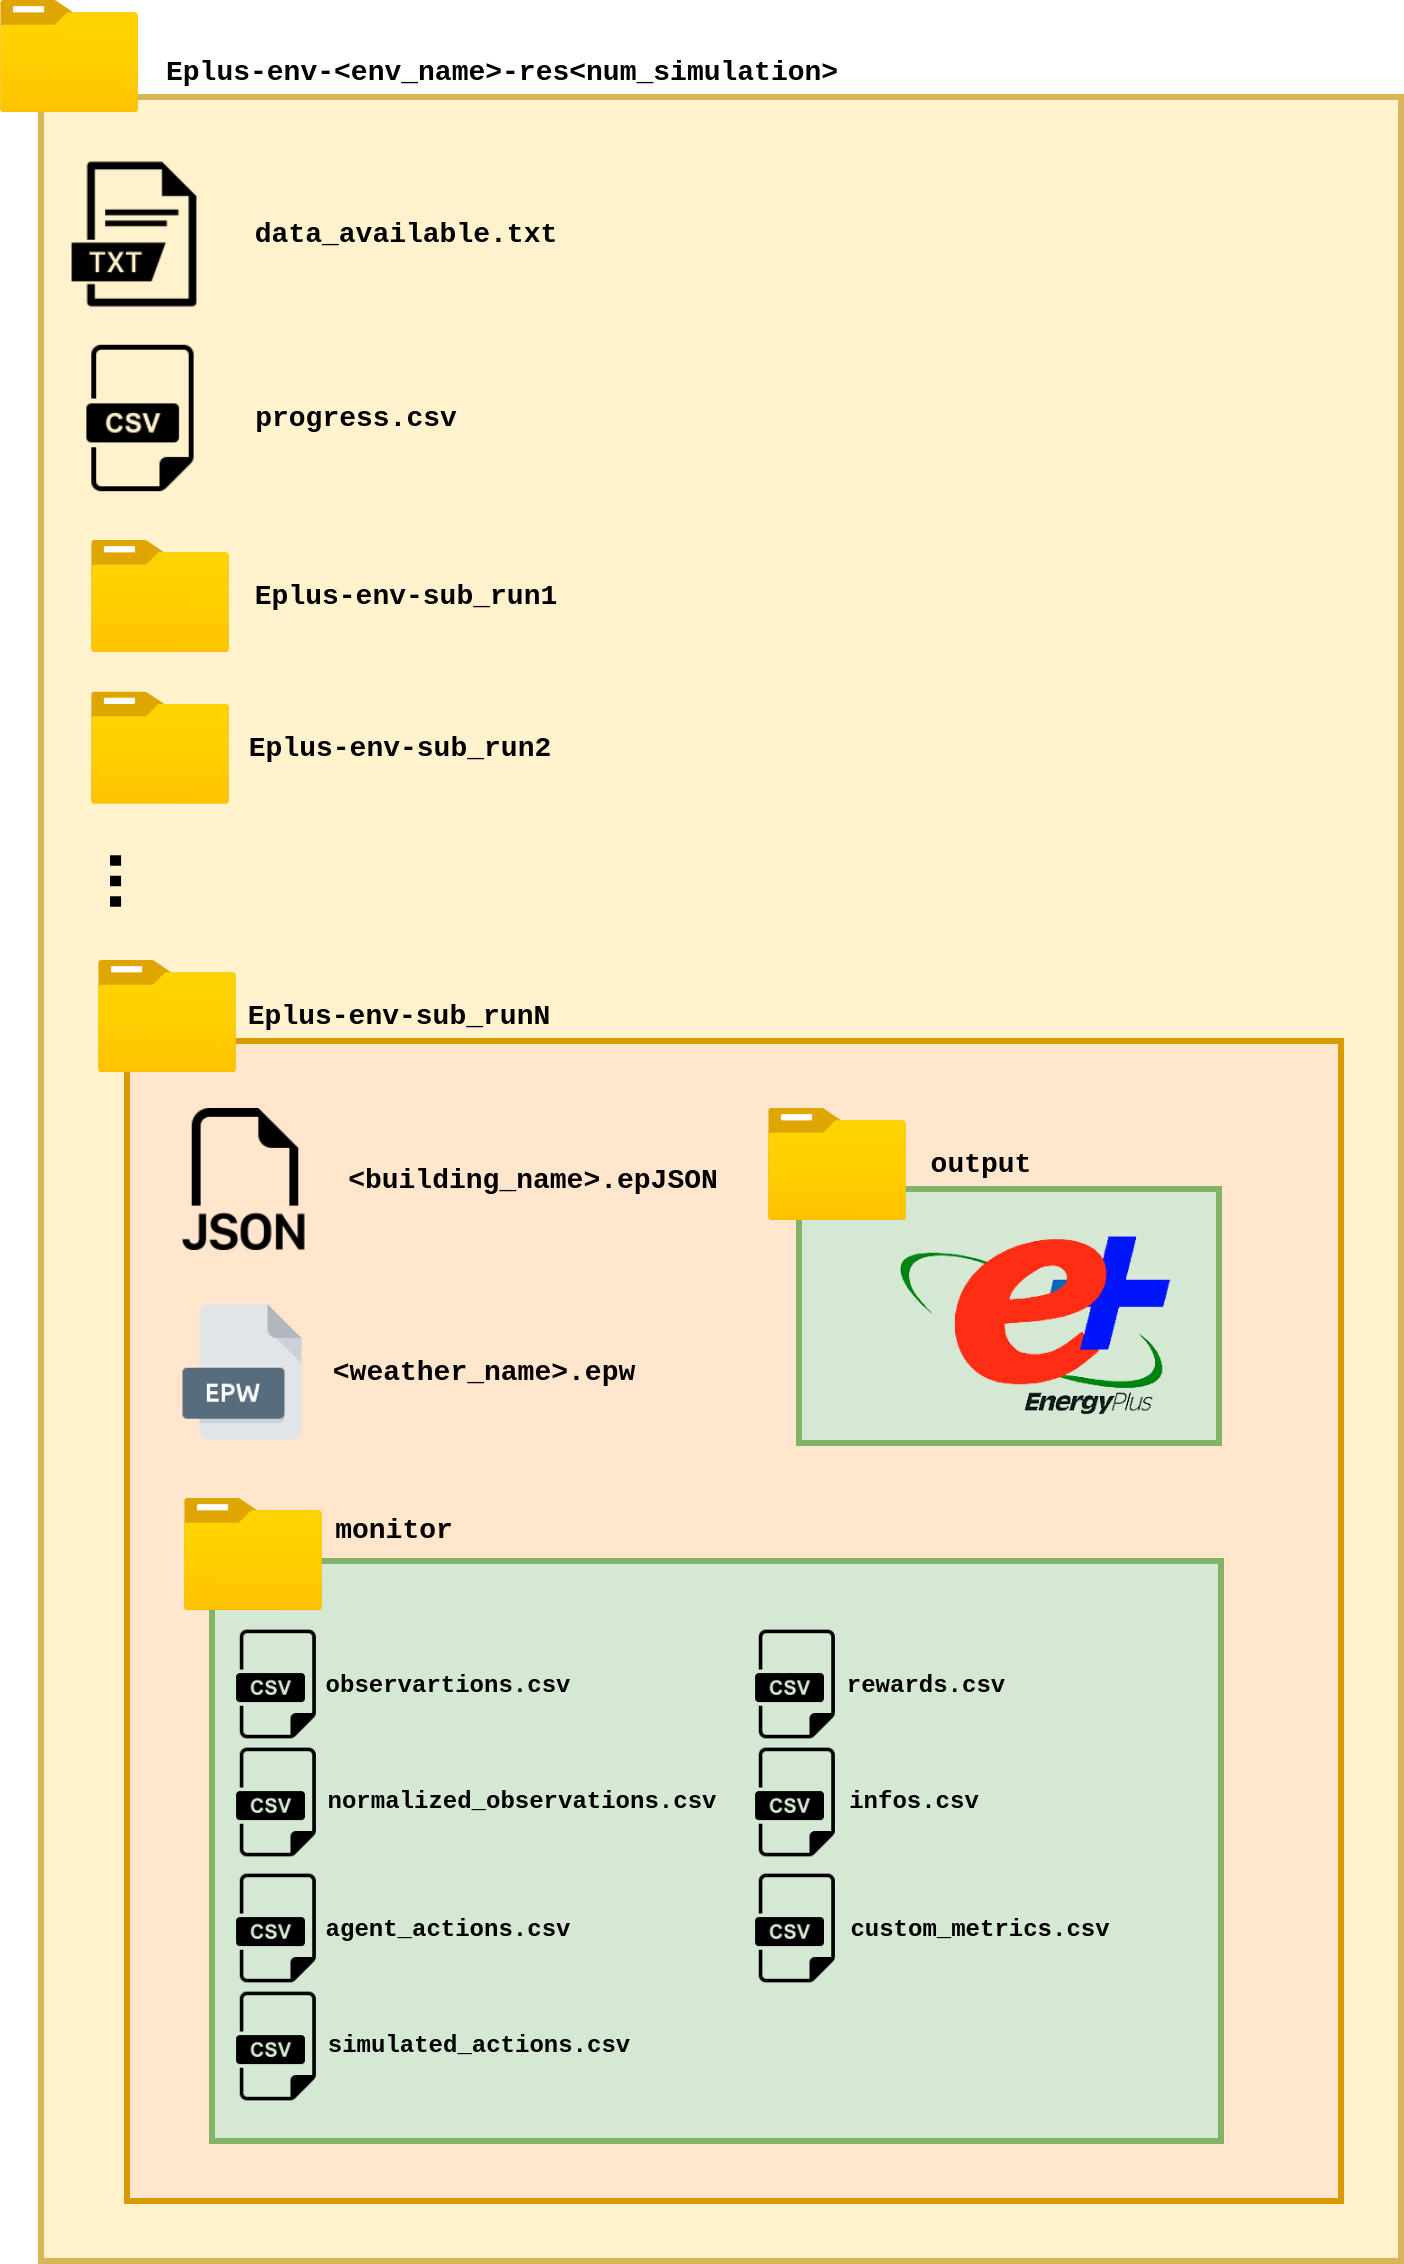
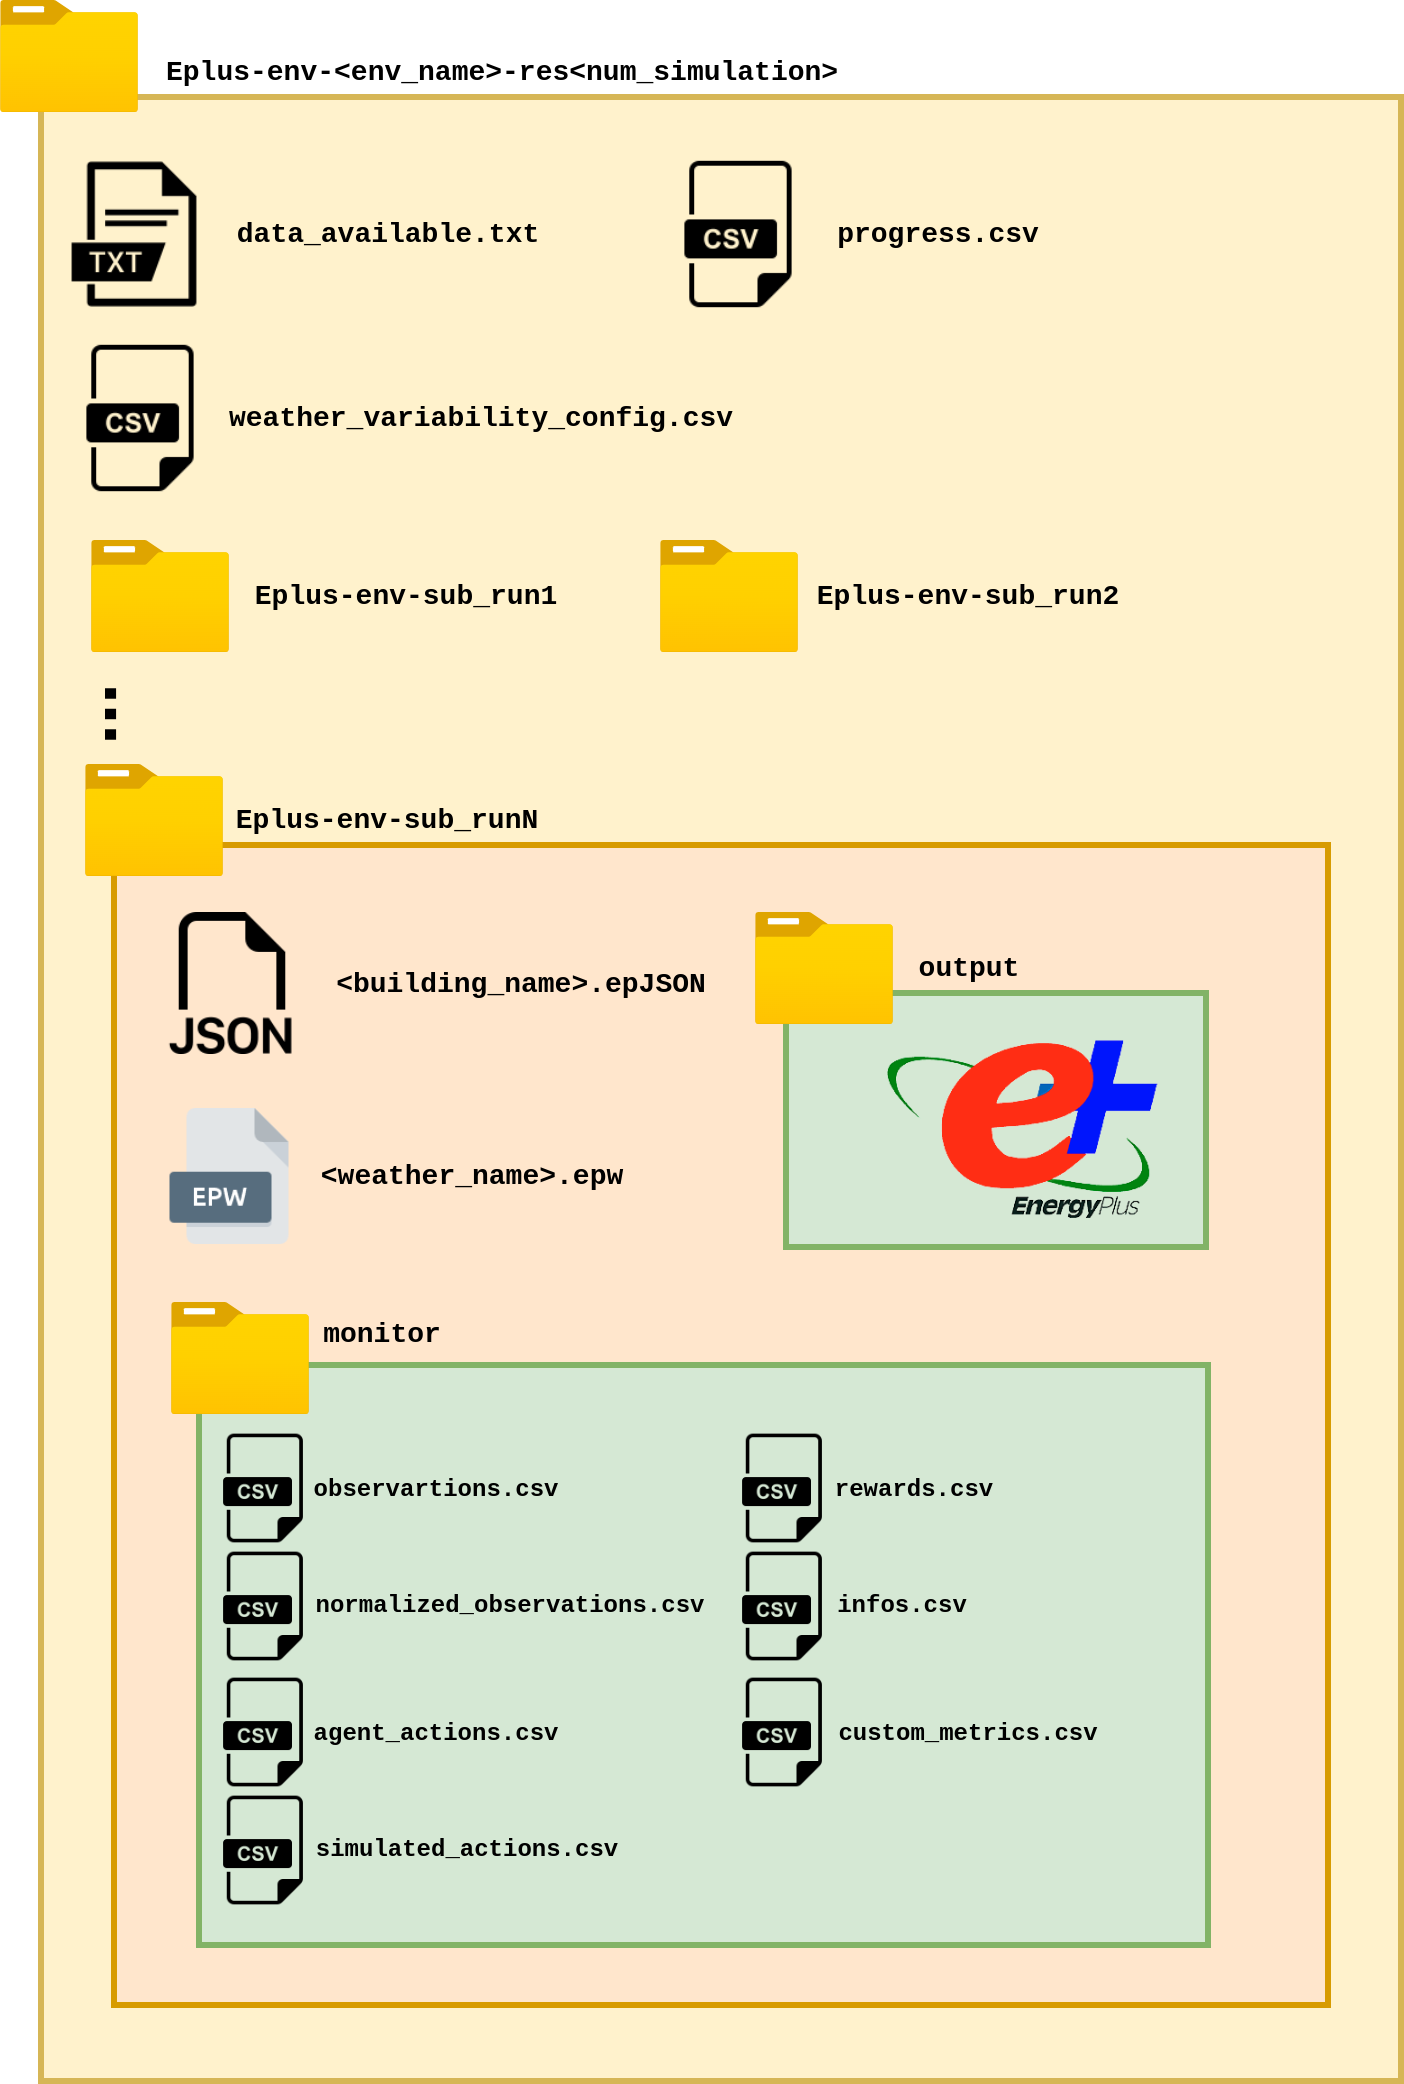
(v3.7.3) - Weather variability config logging in CSVLogger wrapper (#466)
* Modeling: Delete OU configuration in episode folder, save episode OU parameters as attribute

* CSVLogger: Save OU parameters in CSV for each episode

* Tests fixed

* Documentation: Update Sinergym output graph image and documentation section

* Update Sinergym version from 3.7.2 to 3.7.3

diff --git a/tests/test_wrapper.py b/tests/test_wrapper.py
@@ -850,9 +850,14 @@ def test_custom_loggers(env_demo, custom_logger_wrapper):
     assert logger.interactions == 0
 
 
-def test_CSVlogger_wrapper(env_demo):
+@pytest.mark.parametrize('env_name',
+                         [('env_demo'),
+                          ('env_5zone_stochastic')
+                          ])
+def test_CSVlogger_wrapper(env_name, request):
+    env = request.getfixturevalue(env_name)
 
-    env = CSVLogger(env=LoggerWrapper(env=NormalizeObservation(env=env_demo)))
+    env = CSVLogger(env=LoggerWrapper(env=NormalizeObservation(env=env)))
     # Check progress CSV path
     assert env.get_wrapper_attr('progress_file_path') == env.get_wrapper_attr(
         'workspace_path') + '/progress.csv'
@@ -862,6 +867,8 @@ def test_CSVlogger_wrapper(env_demo):
 
     # Assert logger files are not created
     assert not os.path.isfile(env.get_wrapper_attr('progress_file_path'))
+    assert not os.path.isfile(env.get_wrapper_attr(
+        'weather_variability_config_path'))
     assert not os.path.isdir(env.get_wrapper_attr('episode_path') + '/monitor')
 
     # simulating short episode
@@ -881,6 +888,15 @@ def test_CSVlogger_wrapper(env_demo):
         reader = csv.reader(csvfile, delimiter=',')
         # Header row and episode summary
         assert len(list(reader)) == 2
+    if env_name == 'env_demo':
+        # File not exists
+        assert not os.path.isfile(env.get_wrapper_attr(
+            'weather_variability_config_path'))
+    else:
+        with open(env.get_wrapper_attr('weather_variability_config_path'), mode='r', newline='') as csvfile:
+            reader = csv.reader(csvfile, delimiter=',')
+            # Header row and episode config
+            assert len(list(reader)) == 2
     # Check csv in monitor is created correctly (only check with observations)
     with open(episode_path + '/monitor/observations.csv', mode='r', newline='') as csvfile:
         reader = csv.reader(csvfile, delimiter=',')

diff --git a/sinergym/utils/wrappers.py b/sinergym/utils/wrappers.py
@@ -1478,6 +1478,9 @@ class CSVLogger(gym.Wrapper):
         self.progress_file_path = self.get_wrapper_attr(
             'workspace_path') + '/progress.csv'
 
+        self.weather_variability_config_path = self.get_wrapper_attr(
+            'workspace_path') + '/weather_variability_config.csv'
+
         self.logger.info('Wrapper initialized.')
 
     def reset(self,
@@ -1601,6 +1604,31 @@ class CSVLogger(gym.Wrapper):
                 if self.get_wrapper_attr('episode') == 1:
                     writer.writerow(list(episode_summary.keys()))
                 writer.writerow(list(episode_summary.values()))
+
+            # Update weather_variability_config if exists
+            modeling = self.get_wrapper_attr('model')
+            config_path = self.get_wrapper_attr(
+                'weather_variability_config_path')
+
+            if modeling.weather_variability_config is not None:
+                with open(config_path, 'a+') as f:
+                    writer = csv.writer(f)
+
+                    # If first episode, write header
+                    if self.get_wrapper_attr('episode') == 1:
+                        header = ['episode_num'] + [
+                            f"{var_name}_{var_param}"
+                            for var_name in list(modeling.weather_variability_config.keys())
+                            for var_param in ['sigma', 'mu', 'tau']
+                        ]
+                        writer.writerow(header)
+
+                    # Write OU params for each weather variable
+                    var_values = list()
+                    var_values = [
+                        self.get_wrapper_attr('episode')] + [
+                        value for params in modeling.weather_variability_config.values() for value in params]
+                    writer.writerow(var_values)
 
 
 # ---------------------------------------------------------------------------- #

diff --git a/sinergym/config/modeling.py b/sinergym/config/modeling.py
@@ -103,6 +103,8 @@ class ModelJSON(object):
         # Weather data (epw.weather object)
         self.weather_data = Weather()
         self.weather_data.read(self._weather_path)
+        # Weather variability if exists
+        self.weather_variability_config = None
 
         # ----------------------------- Other attributes ----------------------------- #
 
@@ -340,7 +342,7 @@ class ModelJSON(object):
 
             # Check if there are ranges specified in params and get a random
             # value
-            variability_config = {
+            self.weather_variability_config = {
                 weather_var: tuple(
                     np.random.uniform(param[0], param[1]) if isinstance(param, tuple) else param
                     for param in params
@@ -348,21 +350,15 @@ class ModelJSON(object):
                 for weather_var, params in weather_variability.items()
             }
 
-            # Write variability_config to a JSON file for episode
-            config_path = f"{
-                self.episode_path}/weather_variability_config.json"
-            with open(config_path, 'w') as f:
-                json.dump(variability_config, f)
-
             # Apply Ornstein-Uhlenbeck process to weather data
             weather_data_mod.dataframe = ornstein_uhlenbeck_process(
                 data=self.weather_data.dataframe,
-                variability_config=variability_config)
+                variability_config=self.weather_variability_config)
 
             self.logger.info(
                 'Weather noise applied in columns: {}'.format(
                     list(
-                        variability_config.keys())))
+                        self.weather_variability_config.keys())))
 
             # Modify filename to reflect noise addition
             filename = f"{filename.split('.epw')[0]}_OU_Noise.epw"

diff --git a/tests/test_modeling.py b/tests/test_modeling.py
@@ -200,12 +200,6 @@ def test_apply_weather_variability(model_5zone):
     original_filename = model_5zone._weather_path.split('/')[-1]
     path_filename = path_result.split('/')[-1]
     assert original_filename == path_filename
-    # It shouldn't generate variability config
-    # It should generate a json file
-    assert not os.path.exists(
-        model_5zone.episode_path +
-        '/weather_variability_config.json')
-
     # Check with a variation
     weather_variability = {
         'Dry Bulb Temperature': (1.0, 0.0, 24.0),
@@ -213,10 +207,6 @@ def test_apply_weather_variability(model_5zone):
     }
     path_result = model_5zone.apply_weather_variability(
         weather_variability=weather_variability)
-    # It should generate weather variability config file
-    assert os.path.exists(
-        model_5zone.episode_path +
-        '/weather_variability_config.json')
     filename = model_5zone._weather_path.split('/')[-1]
     filename = filename.split('.epw')[0]
     filename += '_OU_Noise.epw'

diff --git a/docs/source/pages/output.rst b/docs/source/pages/output.rst
@@ -46,6 +46,8 @@ The contents of this root output directory include the results of the simulation
 
 - ``progress.csv``. This file contains information about general simulation results. Each row contains episode information registering relevant data such as mean power consumption, rewards or comfort penalties. This file is only available when the environment has been wrapped with a ``LoggerWrapper`` and ``CSVLogger`` (see :ref:`Logger Wrappers` for more information). The structure of this file is defined by the ``LoggerWrapper`` class.
 
+- ``weather_variability_config.json``. This file contains the configuration of the weather variability for each episode. It is only created when the environment has been wrapped with ``LoggerWrapper`` and ``CSVLogger``. It is very useful when you are using ranges in weather variability paramters (more information in :ref:`Weather variability`)
+
 - ``data_available.txt``. It is generated when the *EnergyPlus* API initializes all callbacks and handlers for the simulation. In this file, you can find all the available components of the building model, such as actuators, schedulers, meters, variables,  internal variables, etc.
 
 - ``mean.txt`` and ``var.txt``. These files contain the mean and variation values for calibration of normalization in observation space if wrapper ``NormalizeObservation`` is used (see :ref:`NormalizeObservation`).
